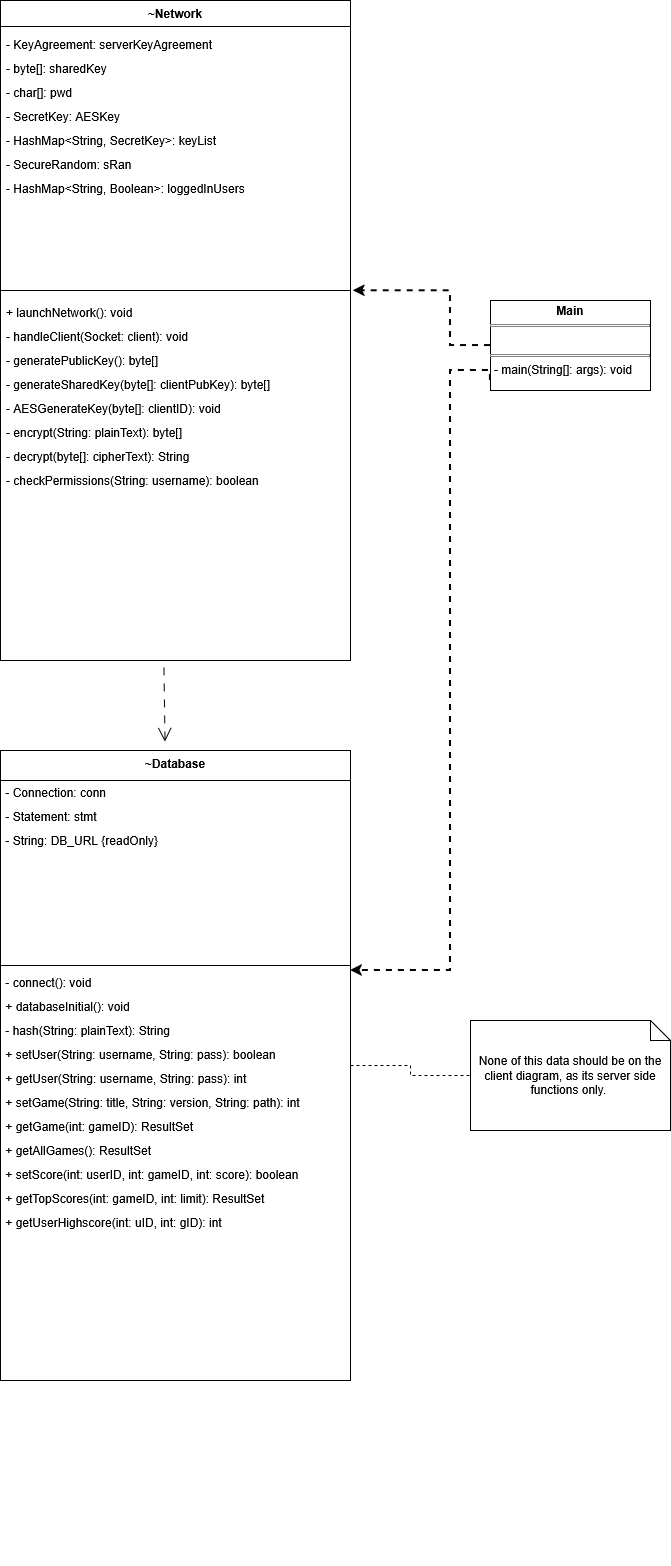
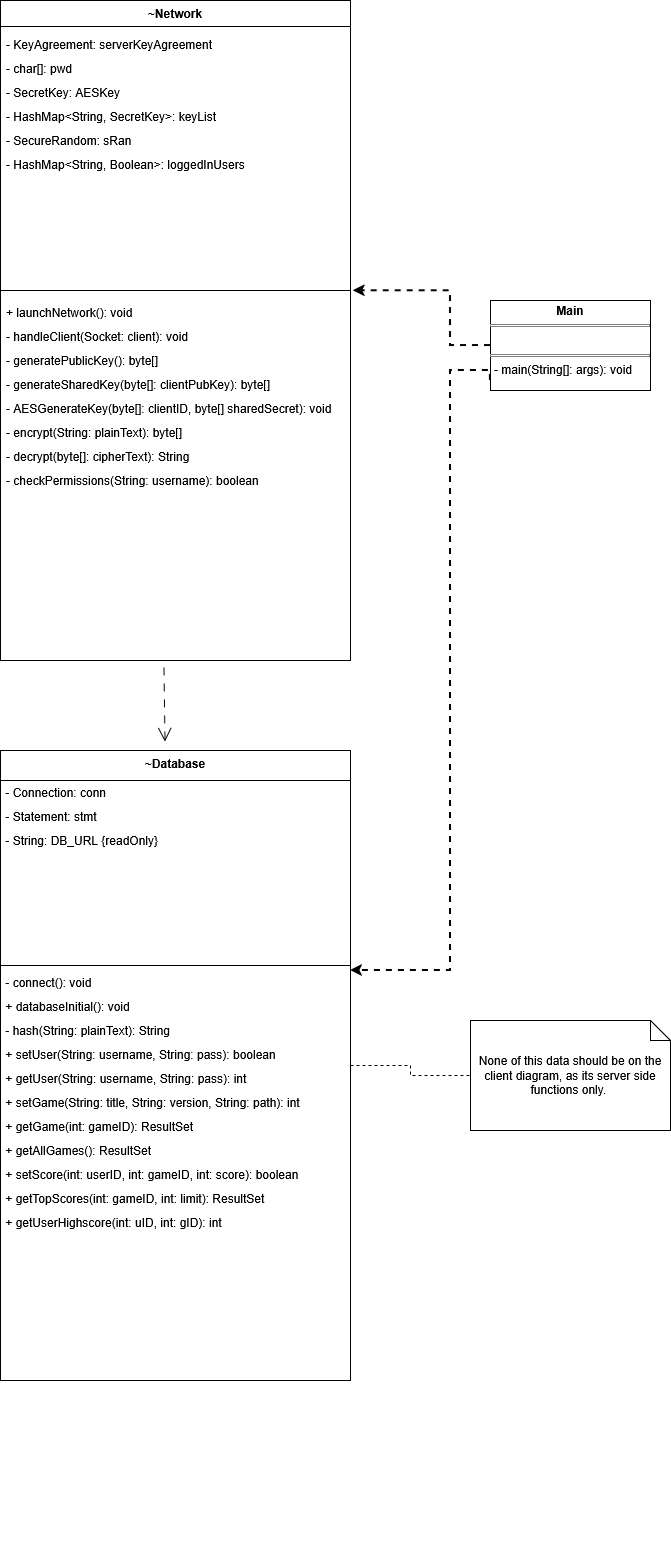
[Platform] Encryption key generation (85) - added functions for creating AES encryption keys for use by the client and server (generatePublicKey(), generateSharedKey(), generateAESKey()) - adjusted server-class-diagram.png to reflect new changes (removal of sharedKey class variable and additional sh

Changed region(s): [[0.0298, 0.0307, 0.3577, 0.1226], [0.3875, 0.2452, 0.4173, 0.2759], [0.2981, 0.2452, 0.3279, 0.2759]]

diff --git a/src/main/java/ca/ucalgary/seng300/core/persistence/Network.java b/src/main/java/ca/ucalgary/seng300/core/persistence/Network.java
@@ -1,17 +1,23 @@
 package ca.ucalgary.seng300.core.persistence;
 
+import javax.crypto.KeyAgreement;
 import javax.crypto.SecretKey;
+import javax.crypto.spec.SecretKeySpec;
 import java.io.IOException;
 import java.net.InetAddress;
 import java.net.ServerSocket;
 import java.net.Socket;
 import java.nio.ByteBuffer;
 import java.nio.charset.StandardCharsets;
+import java.security.*;
+import java.security.spec.X509EncodedKeySpec;
+import java.util.Arrays;
 import java.util.HashMap;
 import java.util.UUID;
 
 public class Network
 {
+    private static KeyAgreement serverKeyAgreement = null;
     private static HashMap<String, SecretKey> keyList = new HashMap<String, SecretKey>();
     private static SecretKey AESKey;
 
@@ -73,6 +79,11 @@ public class Network
 
 
                 //need a flag to let client know if clientID + key pair should be overwritten?
+                /*if server and client connect so client has clientID and then server is restarted, clientID record is
+                lost only on server side. Client still thinks has valid clientID. Need way to tell client to disregard
+                current clientID and accept a new one.
+
+                 */
             }else   //if they did have one...
             {
                 clientID = UUID.fromString(clientIDString);
@@ -80,6 +91,76 @@ public class Network
                 //retrieve their encryption key
                 AESKey = keyList.get(clientIDString);
             }
-        }
+        }   //missing catch statment
+    }
+
+
+    /**
+     * Creates a public-private key pair for the Diffie-Hellman protocol. The public key contains the modulus 'm', the
+     * 'g' value, and the 'g^a' value. The private key is the 'a' value. The public key is returned (and later sent
+     * to the client), while the private key is saved in the serverKeyAgreement for later use.
+     * @return The public key in byte[] format.
+     * @throws Exception If the Diffie-Hellman protocol can't be found, will throw a NoSuchAlgorithmException
+     */
+    private static byte[] generatePublicKey() throws Exception
+    {
+        //create a public-private key pair
+        KeyPairGenerator serverKeyPairGen = KeyPairGenerator.getInstance("DH"); //DH = Diffie-Hellman
+        serverKeyPairGen.initialize(512);
+        KeyPair serverKeyPair = serverKeyPairGen.generateKeyPair();
+
+        //handles exchange protocol
+        serverKeyAgreement = KeyAgreement.getInstance("DH");
+        serverKeyAgreement.init(serverKeyPair.getPrivate());
+
+        //turn the public key into a byte array and send
+        return serverKeyPair.getPublic().getEncoded();
+    }
+
+    /**
+     * Using the client's public key and the private key previously created in generatePublicKey(), creates a shared
+     * secret (matching byte[] between the client and server). In Diffie-Hellman terms, this function applies the
+     * server's 'a' value to g^b, before applying modulus 'm' to the whole expression.
+     * @param clientPubKeyBytes The public key of the client in byte[] format
+     * @return The shared secret, in byte[] format
+     * @throws Exception If the Diffie-Hellman protocol can't be found, will throw a NoSuchAlgorithmException
+     */
+    private static byte[] generateSharedKey(byte[] clientPubKeyBytes) throws Exception
+    {
+        //server converts client's public key back into readable format
+        KeyFactory serverKeyFactory = KeyFactory.getInstance("DH");
+        X509EncodedKeySpec x509KeySpec2 = new X509EncodedKeySpec(clientPubKeyBytes);
+        PublicKey clientPublicKey = serverKeyFactory.generatePublic(x509KeySpec2);
+
+        //calculate the shared secret using the client's public key and the server's private key
+        serverKeyAgreement.doPhase(clientPublicKey, true);
+        byte[] sharedSecret = serverKeyAgreement.generateSecret();
+
+        System.out.println("Shared key: " + Arrays.toString(sharedSecret));    //for debug
+
+        return sharedSecret;
+    }
+
+    /**
+     * Using the shared secret created from the Diffie-Hellman protocol (specifically generateSharedKey()'s result),
+     * creates an AES key for encryption and decryption. The new AES key is then saved into the keyList with the client's
+     * clientID.
+     * @param clientID  The clientID of the client computer the AES key is being generated for.
+     * @param sharedSecret The shared secret between the client and server computers.
+     * @throws Exception If the SHA-256 algorithm can't be found, will throw a NoSuchAlgorithmException
+     */
+    public static void generateAESKey(String clientID, byte[] sharedSecret) throws Exception
+    {
+        //use the shared secret to generate a hash
+        MessageDigest digest = MessageDigest.getInstance("SHA-256");
+        byte[] hash = digest.digest(sharedSecret);
+
+        //then use the first 16 bytes of that hash to make the key
+        byte[] shortHash = new byte[16];
+        System.arraycopy(hash, 0, shortHash, 0, 16);
+        AESKey = new SecretKeySpec(shortHash, "AES");
+
+        //add it to the list
+        keyList.put(clientID, AESKey);
     }
 }